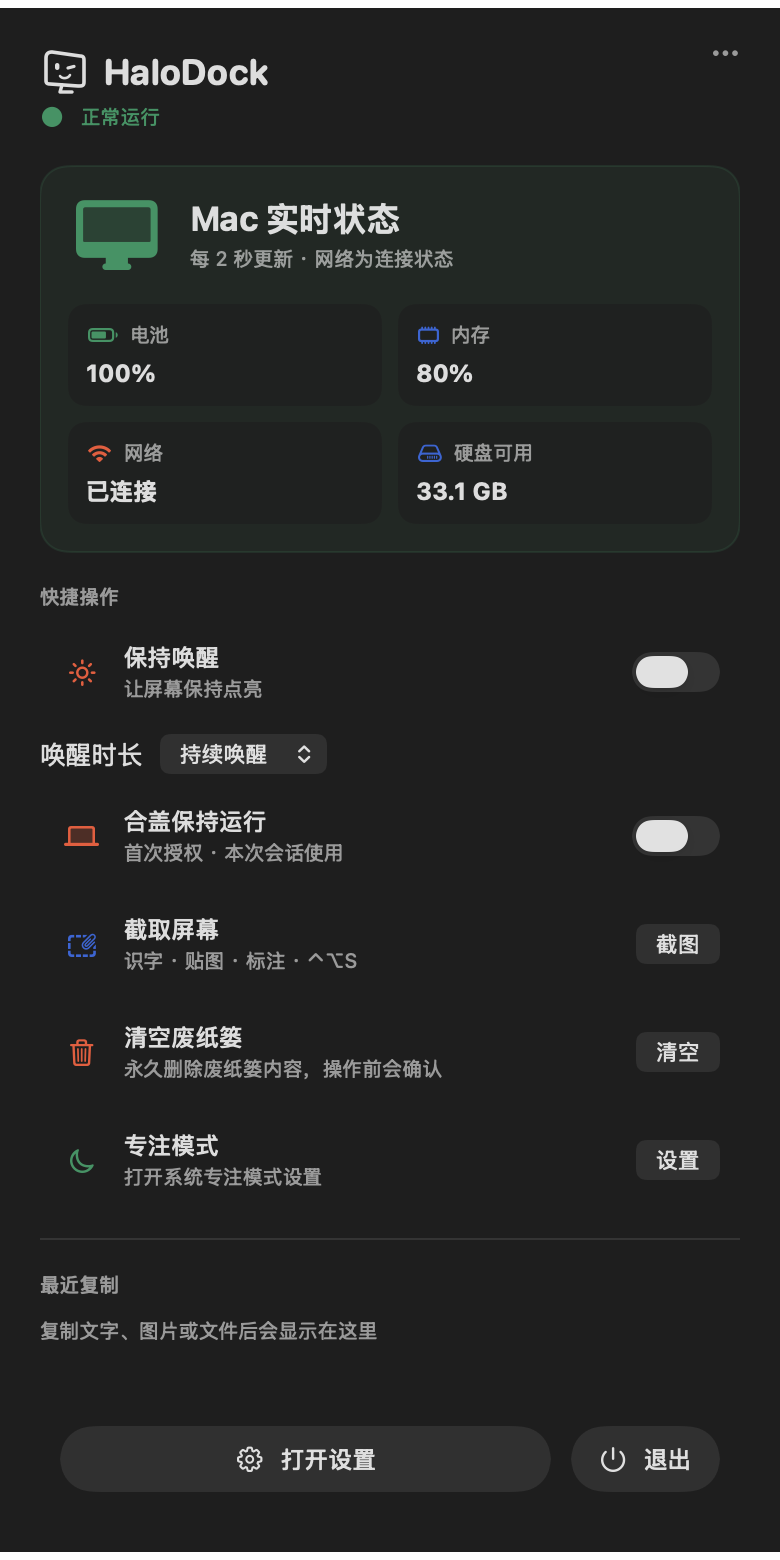
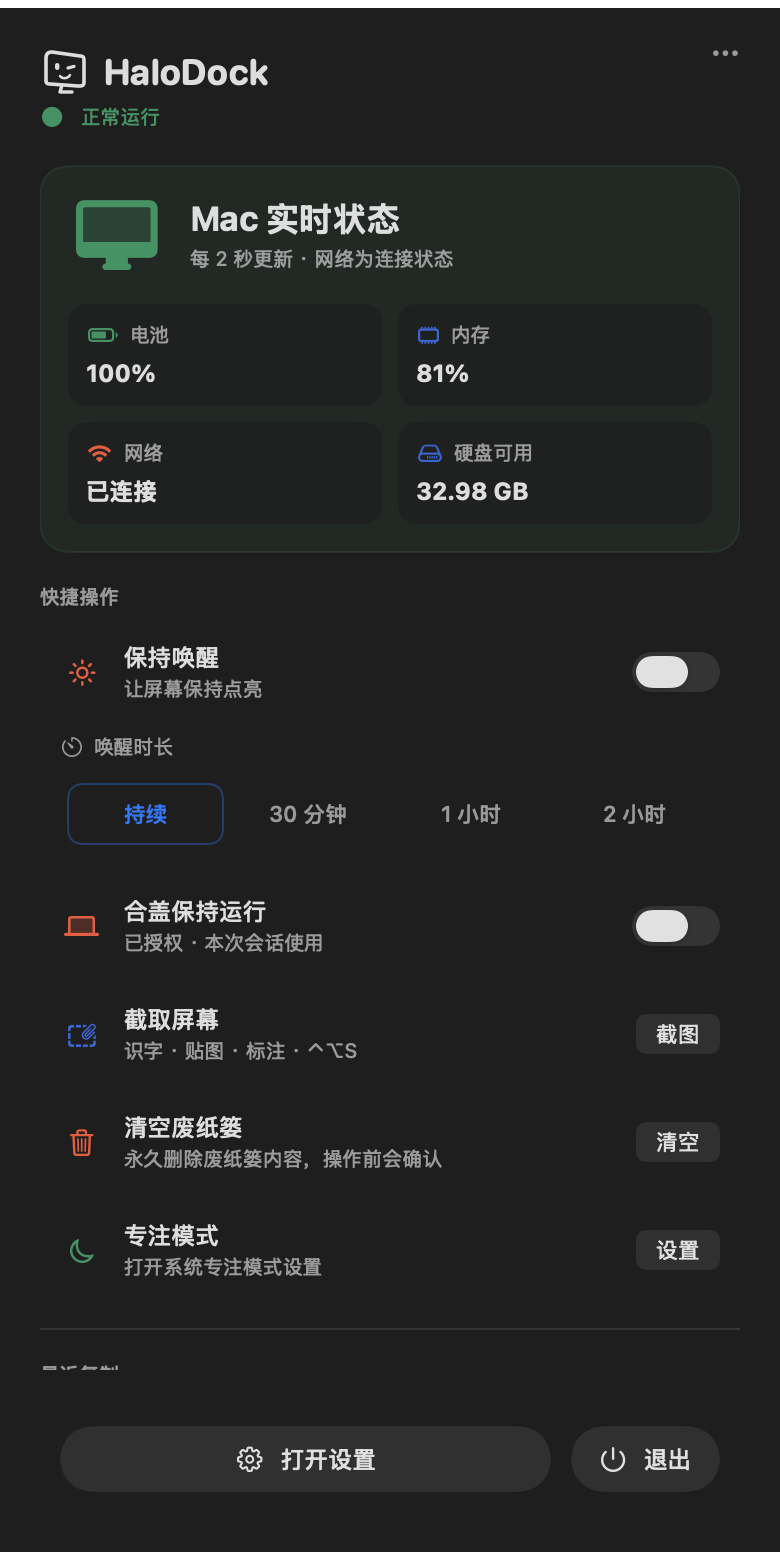
Refine wake duration controls and prevent website preview overlap

diff --git a/Sources/HaloDock/WakeDurationControl.swift b/Sources/HaloDock/WakeDurationControl.swift
@@ -1,0 +1,45 @@
+import SwiftUI
+
+struct WakeDurationControl: View {
+    @Binding var minutes: Int
+    private let options: [(value: Int, title: String)] = [(0, "持续"), (30, "30 分钟"), (60, "1 小时"), (120, "2 小时")]
+
+    var body: some View {
+        VStack(alignment: .leading, spacing: 8) {
+            HStack(spacing: 5) {
+                Image(systemName: "timer")
+                Text("唤醒时长")
+            }
+            .font(.caption)
+            .foregroundStyle(.secondary)
+
+            HStack(spacing: 4) {
+                ForEach(options, id: \.value) { option in
+                    Button { minutes = option.value } label: {
+                        Text(option.title)
+                            .font(.system(size: 11, weight: minutes == option.value ? .semibold : .medium))
+                            .frame(maxWidth: .infinity)
+                            .padding(.vertical, 8)
+                            .foregroundStyle(minutes == option.value ? Color.accentColor : Color.secondary)
+                            .background {
+                                if minutes == option.value {
+                                    RoundedRectangle(cornerRadius: 7)
+                                        .fill(Color(nsColor: .windowBackgroundColor))
+                                        .shadow(color: .black.opacity(0.07), radius: 2, y: 1)
+                                        .overlay(RoundedRectangle(cornerRadius: 7).stroke(Color.accentColor.opacity(0.35), lineWidth: 1))
+                                }
+                            }
+                            .contentShape(RoundedRectangle(cornerRadius: 7))
+                    }
+                    .buttonStyle(.plain)
+                    .accessibilityLabel(option.value == 0 ? "持续唤醒，直到手动关闭" : "唤醒 \(option.title)")
+                    .accessibilityAddTraits(minutes == option.value ? [.isSelected] : [])
+                }
+            }
+            .padding(4)
+            .background(Color(nsColor: .controlBackgroundColor), in: RoundedRectangle(cornerRadius: 10))
+        }
+        .padding(.horizontal, 10)
+        .padding(.bottom, 6)
+    }
+}

diff --git a/Sources/HaloDock/HaloDockView.swift b/Sources/HaloDock/HaloDockView.swift
@@ -58,7 +58,7 @@ struct HaloDockView: View {
             .background(GeometryReader { geometry in
                 Color.clear.preference(key: PanelChromeHeight.self, value: geometry.size.height)
             })
-            ScrollView {
+            ScrollView(.vertical, showsIndicators: false) {
                 VStack(alignment: .leading, spacing: 16) {
                     if showMacStatus { statusSummary }
                     if showQuickActions { quickActions }
@@ -154,15 +154,10 @@ struct HaloDockView: View {
             ForEach(QuickAction.ordered(quickActionOrder).filter { !QuickAction.hidden(hiddenQuickActions).contains($0.rawValue) }) { action in
                 quickAction(action)
                 if action == .awake {
-                    Picker("唤醒时长", selection: Binding(get: { wakeMinutes }, set: { value in
+                    WakeDurationControl(minutes: Binding(get: { wakeMinutes }, set: { value in
                         wakeMinutes = value
                         if system.keepAwake { system.startWake(minutes: value) }
-                    })) {
-                        Text("持续唤醒").tag(0)
-                        Text("30 分钟").tag(30)
-                        Text("1 小时").tag(60)
-                        Text("2 小时").tag(120)
-                    }.controlSize(.small)
+                    }))
                 }
             }
             if closedLid.needsRestore {
@@ -192,7 +187,7 @@ struct HaloDockView: View {
         case .closedLid:
             ActionRow(
                 title: "合盖保持运行",
-                detail: closedLid.active ? (closedLid.endsAt.map { "运行至 " + $0.formatted(date: .omitted, time: .shortened) } ?? "直到关闭或退出") : "首次授权 · 本次会话使用",
+                detail: closedLid.active ? (closedLid.endsAt.map { "运行至 " + $0.formatted(date: .omitted, time: .shortened) } ?? "直到关闭或退出") : (closedLid.authorizationInstalled ? "已授权 · 本次会话使用" : "首次授权 · 本次会话使用"),
                 symbol: "laptopcomputer",
                 tint: .haloOrange,
                 trailing: AnyView(

diff --git a/website/style.css b/website/style.css
@@ -16,3 +16,36 @@ body{padding-top:72px}.nav-wrap{position:fixed;top:0;left:0;right:0;z-index:100;
 @media(max-width:760px){.product-stage{height:595px}.stage-heading{padding:14px 16px 0;letter-spacing:.2px;font-size:6px}.stage-theme button{padding:7px 9px;font-size:9px;min-height:32px}.stage-app{top:72px}.stage-caption{bottom:16px}}
 @media(max-width:370px){.product-stage{height:565px}.stage-app{top:72px}.stage-heading{font-size:5.5px}.stage-theme button{padding-inline:7px}.stage-caption{font-size:6px}}
 @media(max-width:760px){.stage-theme button{min-width:44px;min-height:44px;padding-inline:7px}}
+
+/* Keep the complete panel and its caption in separate layout rows. */
+.product-stage {
+  display: grid;
+  grid-template-rows: auto minmax(0, 1fr) auto;
+  gap: 18px;
+  padding: 20px 24px;
+}
+.stage-heading { padding: 0; min-width: 0; }
+.stage-app {
+  position: relative;
+  top: auto;
+  left: auto;
+  width: auto;
+  height: 100%;
+  max-width: calc(100% - 70px);
+  aspect-ratio: 390 / 804;
+  margin-left: 12px;
+  display: flex;
+  flex-direction: column;
+  min-height: 0;
+}
+.stage-app-bar { flex: 0 0 24px; }
+.stage-app > img { flex: 1 1 auto; min-height: 0; width: 100%; height: 0; object-fit: contain; }
+.stage-caption { position: relative; inset: auto; gap: 12px; line-height: 1.6; }
+@media (max-width: 760px) {
+  .product-stage { padding: 18px; gap: 16px; }
+  .stage-app { margin-left: 0; max-width: calc(100% - 65px); }
+}
+@media (max-width: 370px) {
+  .product-stage { padding: 16px; }
+  .stage-app { max-width: calc(100% - 48px); }
+}

diff --git a/Sources/HaloDock/ClosedLidState.swift b/Sources/HaloDock/ClosedLidState.swift
@@ -53,7 +53,8 @@ final class ClosedLidState:ObservableObject {
         let alert=NSAlert()
         alert.messageText="开启合盖保持运行？"
         let duration=minutes==0 ? "直到手动关闭或退出 App":"最多 \(minutes) 分钟"
-        alert.informativeText="本次将阻止系统睡眠，合盖后继续运行，\(duration)。电池低于 20% 或系统温度过高时会恢复睡眠。\n\n首次授权只允许当前用户执行两条电源命令。合盖运行时请保持通风。"
+        let authorizationNote = authorizationInstalled ? "已配置合盖授权，本次将复用已有授权。" : "首次授权只允许当前用户执行两条电源命令。"
+        alert.informativeText="本次将阻止系统睡眠，合盖后继续运行，\(duration)。电池低于 20% 或系统温度过高时会恢复睡眠。\n\n\(authorizationNote)合盖运行时请保持通风。"
         alert.addButton(withTitle:authorizationInstalled ? "开启":"授权并开启");alert.addButton(withTitle:"取消")
         guard alert.runModal() == .alertFirstButtonReturn else {return}
         isChanging=true

diff --git a/website/index.html b/website/index.html
@@ -10,7 +10,7 @@
   <meta property="og:description" content="状态、复制、截图、保持唤醒。让 Mac 的日常小事顺手一点。">
   <meta property="og:image" content="https://huangzhuangjia.github.io/halodock/assets/logo.png">
   <link rel="icon" href="./assets/logo.png" type="image/png">
-  <link rel="stylesheet" href="./style.css?v=0.1.4-2">
+  <link rel="stylesheet" href="./style.css?v=0.2.2">
   <title>HaloDock — 小事交给它。</title>
 </head>
 <body>

diff --git a/README.md b/README.md
@@ -82,7 +82,7 @@
 
 <img src="docs/images/installer.png" width="680" alt="HaloDock DMG 实际安装窗口：暖白品牌背景、歪头屏图标与拖拽安装引导" />
 
-当前版本使用 **ad-hoc 签名，尚未进行 Apple Developer ID 签名与公证**。如果 macOS 阻止打开，请查看“系统设置 → 隐私与安全性”中的对应提示。
+当前版本使用 **ad-hoc 签名，尚未进行 Apple Developer ID 签名与公证**。每次构建的代码身份会变化，更新后 macOS 可能再次请求屏幕录制、自动化等隐私权限；安装记录不等于系统权限会自动继承。合盖模式的窄范围管理员授权保存在系统规则中，正常更新会保留，开启会话的确认提示也不等于重新授权。如果 macOS 阻止打开，请查看“系统设置 → 隐私与安全性”中的对应提示。
 
 每版安装包附带 `.sha256` 文件。将 DMG 和校验文件放到同一目录后，可以检查下载完整性：
 
